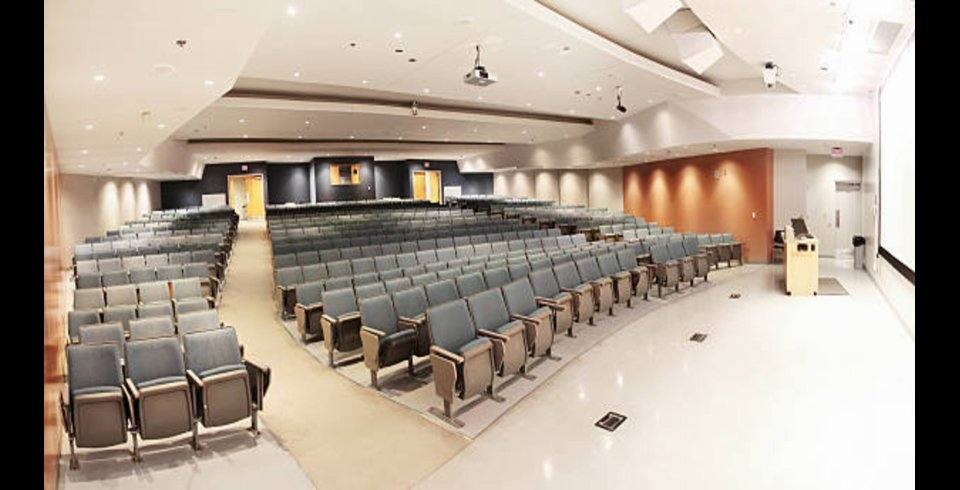
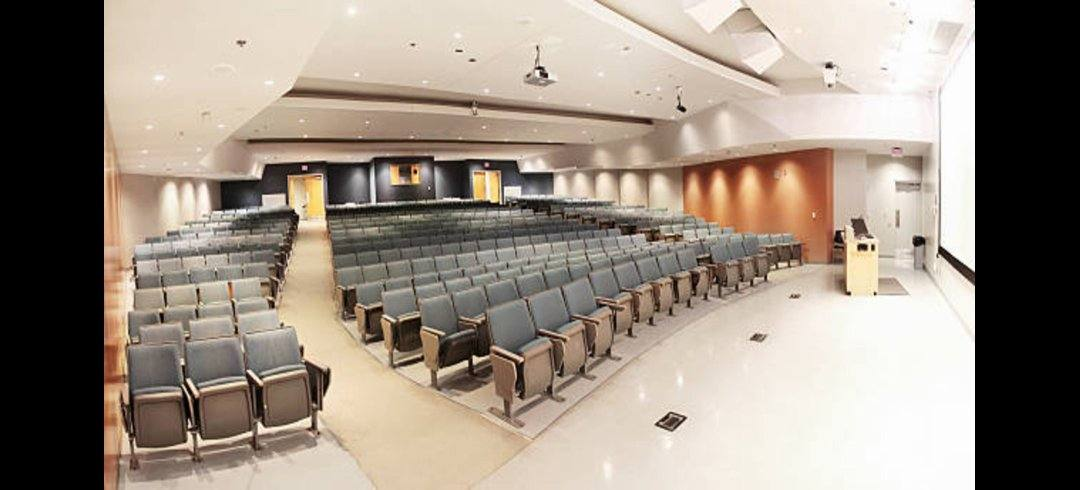
smal lfix background

diff --git a/game/screens.py b/game/screens.py
@@ -337,9 +337,9 @@ def draw_background(surface, level_data, camera_x, tick):
     if photo is not None:
         photo = pygame.transform.scale(photo, (4100, BG_H))
         parallax_x = int(camera_x * (4100 - SCREEN_WIDTH) / 4100)
-        surface.blit(photo, (-parallax_x-200, HUD_HEIGHT))
+        surface.blit(photo, (-parallax_x-400, HUD_HEIGHT))
         if parallax_x > 0:
-            surface.blit(photo, (-parallax_x-200, HUD_HEIGHT))
+            surface.blit(photo, (-parallax_x-400, HUD_HEIGHT))
         tint = pygame.Surface((SCREEN_WIDTH, BG_H), pygame.SRCALPHA)
         tint.fill((0, 0, 0, 60))
         surface.blit(tint, (0, HUD_HEIGHT))
